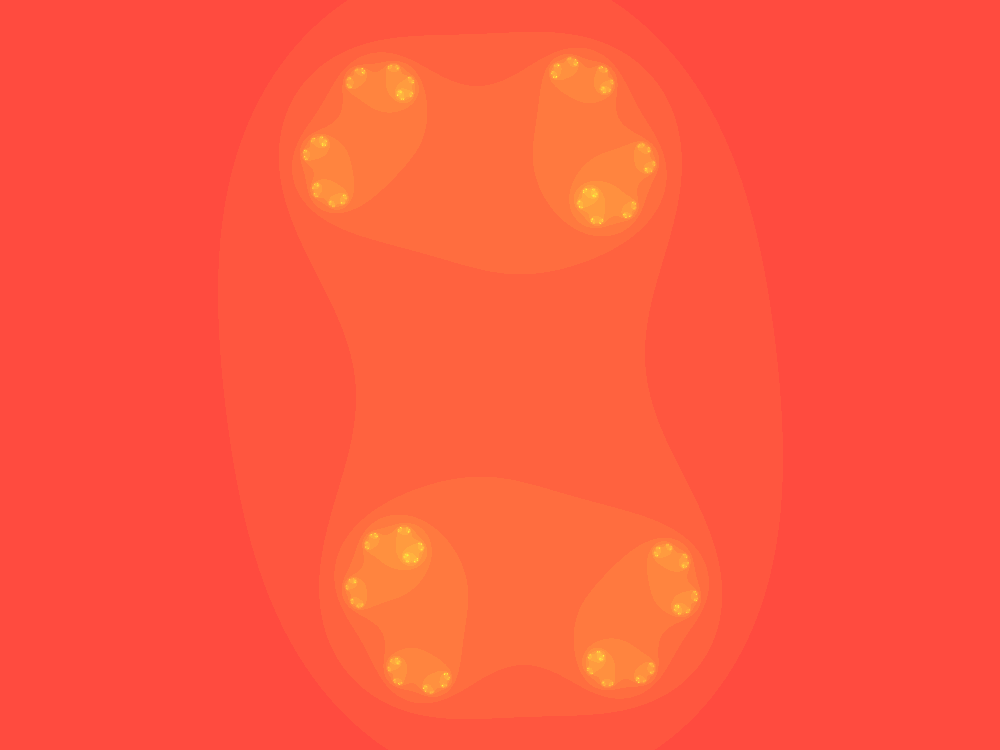
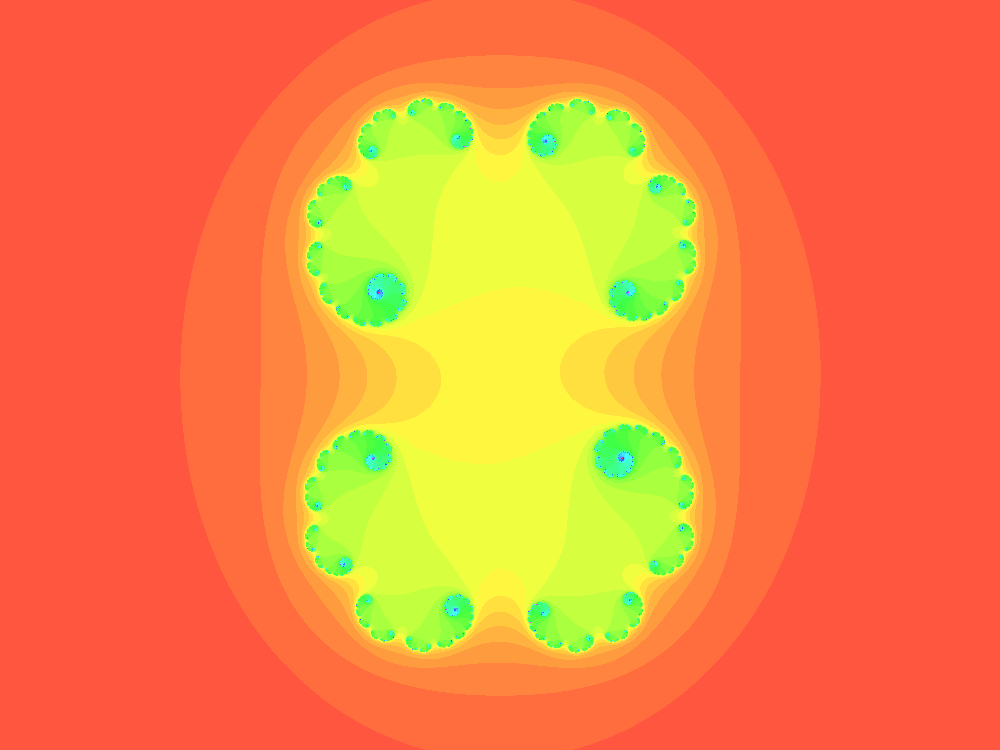
changed to RGB bc of pixels array

diff --git a/Fractals (p5)/fractals.js b/Fractals (p5)/fractals.js
@@ -5,8 +5,8 @@ var zoom = 0.9; //zoom factor
 var zoomOut = 1.1; //zoom factor
 var xZoom = 4; //x width of coordinate plane
 var yZoom = 3; // y width of coordinate plane
-var cX = 0,
-  cY = 0; //center coordinates
+var cX = 0; //center coordinates
+var cY = 0; //center coordinates
 var currentSet = 0; //0-mandelbrot
 var fWidth = 1000;
 var fHeight = 750;
@@ -27,11 +27,6 @@ function setup() {
   colorMode(RGB, 255);
   fill(200);
   rect(fWidth + (width - fWidth) / 2, height / 2, width - fWidth, height);*/
-
-  for (i = 0; i < 2; i += 0.5) {
-    var cN=new ComplexNumber(i,0);
-    print(mandelbrot(zero, cN, 0, fIter));
-  }
 }
 
 function draw() {
@@ -39,19 +34,22 @@ function draw() {
 }
 
 var drawMand = function(iter, mWidth, mHeight) {
-  mandelb = createImage(mWidth, mHeight);
-  colorMode(HSB, iter);
+  var mandelb = createImage(mWidth, mHeight);
+  //colorMode(RGB, iter);
   mandelb.loadPixels();
-  for (var h = 0.0; h < mandelb.height; h+=1.0) {
-    for (var w = 0.0; w < mandelb.width; w+=1.0) {
-      var a = new ComplexNumber(w/(mandelb.width/4.0) - 2.0, 1.5 - (h/(mandelb.height/3.0)));
-      var color1 = color(mandelbrot(zero, a, 0, iter), iter * .75, iter);
-      mandelb.set(w, h, color1);
+  for (var h = 0.0; h < 4.0 * mandelb.height; h += 4.0) {
+    for (var w = 0.0; w < 4.0 * mandelb.width; w += 4.0) {
+      var a = new ComplexNumber((w / 4.0) / (mandelb.width / 4.0) - 2.0, 1.5 - ((h / 4.0) / (mandelb.height / 3.0)));
+      //mandelb.pixels[h*mandelb.width+w]=color(mandelbrot(zero, a, 0, iter), iter*0.75, iter);
+      mandelb.pixels[h * mandelb.width + w] = map(mandelbrot(zero, a, 0, iter), 0, iter, 0, 255);
+      mandelb.pixels[h * mandelb.width + w + 1] = 0;
+      mandelb.pixels[h * mandelb.width + w + 2] = 0;
+      mandelb.pixels[h * mandelb.width + w + 3] = 255;
     }
   }
   mandelb.updatePixels();
   return mandelb;
-}
+};
 
 var mandelbrot = function(prev, orig, iter, maxI) {
   var next = orig.add(prev.square());
@@ -63,24 +61,24 @@ var mandelbrot = function(prev, orig, iter, maxI) {
       return mandelbrot(next, orig, iter + 1, maxI);
     }
   }
-}
+};
 
-function ComplexNumber(a, b) {
+function ComplexNumber (a, b) {
 
   this.getReal = function() {
     return a;
-  }
+  };
 
   this.getImag = function() {
     return b;
-  }
+  };
 
   this.toString = function() {
     var result = "";
-    if (a == 0) {
+    if (a === 0) {
       if (b < 0) {
         result = nfc(b, 2) + "i";
-      } else if (b == 0) {
+      } else if (b === 0) {
         result = "0.0";
       } else {
         result = nfc(b, 2) + "i";
@@ -88,38 +86,38 @@ function ComplexNumber(a, b) {
     } else {
       if (b < 0) {
         result = nfc(a, 2) + " - " + nfc(abs(b), 2) + "i";
-      } else if (b == 0) {
+      } else if (b === 0) {
         result = nfc(a, 2) + "";
       } else {
         result = nfc(a, 2) + " + " + nfc(b, 2) + "i";
       }
     }
     return result;
-  }
+  };
 
   this.add = function(c) {
     var cReal = a + c.getReal();
     var cImag = b + c.getImag();
     var d = new ComplexNumber(cReal, cImag);
     return d;
-  }
+  };
 
   this.subtract = function(c) {
     var cReal = a - c.getReal();
     var cImag = b - c.getImag();
     var d = new ComplexNumber(cReal, cImag);
     return d;
-  }
+  };
 
   this.multiply = function(c) {
     var cReal = a * c.getReal() + (-1 * b * c.getImag());
     var cImag = a * c.getImag() + (b * c.getReal());
     var d = new ComplexNumber(cReal, cImag);
     return d;
-  }
+  };
 
   this.divide = function(c) {
-    if ((c.getReal() + c.getImag()) == 0) {
+    if ((c.getReal() + c.getImag()) === 0) {
       var d = new ComplexNumber(a, b);
       print("Not valid; returning the dividend");
       return d;
@@ -129,25 +127,25 @@ function ComplexNumber(a, b) {
     var numImag = -1 * a * c.getImag() + (b * c.getReal());
     var cReal = numReal / denom;
     var cImag = numImag / denom;
-    var d = new ComplexNumber(cReal, cImag);
-    return d;
-  }
+    var e = new ComplexNumber(cReal, cImag);
+    return e;
+  };
 
   this.conjugate = function() {
     var d = new ComplexNumber(a, -1 * b);
     return d;
-  }
+  };
 
   this.equals = function(c) {
     if (a != c.getReal()) return false;
     if (b != c.getImag()) return false;
     return true;
-  }
+  };
 
   this.magnitude = function() {
     var d = Math.sqrt(a * a + b * b);
     return d;
-  }
+  };
 
   this.power = function(exp) {
     var d = new ComplexNumber(1, 0);
@@ -156,18 +154,61 @@ function ComplexNumber(a, b) {
       d = d.multiply(c);
     }
     return d;
-  }
+  };
 
   this.square = function() {
     var cReal = a * a - b * b;
     var cImag = 2 * a * b;
     var d = new ComplexNumber(cReal, cImag);
     return d;
+  };
+
+};
+
+var HSBtoRGB = function(h, s, b) {
+  var c = (1 - Math.abs(2 * b - 1)) * s;
+  var x = c * (1 - Math.abs((h / 60) % 2 - 1));
+  var m = b - (c / 2);
+  var test = h / 60.0;
+  var r;
+  var g;
+  var B;
+  switch (true) {
+    case test < 1:
+      r = c + m;
+      g = x + m;
+      B = m;
+      break;
+    case test < 2:
+      r = x + m;
+      g = c + m;
+      B = m;
+      break;
+    case test < 3:
+      r = m;
+      g = c + m;
+      B = x + m;
+      break;
+    case test < 4:
+      r = m;
+      g = x + m;
+      B = c + m;
+      break;
+    case test < 5:
+      r = x + m;
+      g = m;
+      B = c + m;
+      break;
+    case test < 6:
+      r = c + m;
+      g = m;
+      B = x + m;
+      break;
   }
+  return [r, g, B];
+};
 
-}
-
-function mouseClicked() {
+/*function mouseClicked() {
   if (mouseButton == LEFT) {
     for (var i = 0; i < nodes.length; i++) {
       var p = nodes[i];
@@ -193,10 +234,10 @@ function mouseClicked() {
     initialAction = calculateK() - calculateU();
     most = max(initialAction, initialU, abs(initialK));
   }
-}
+}*/
 
 
-function myFunction() {
+/*function myFunction() {
   var e = document.getElementById("menu1");
   potential = e.options[e.selectedIndex].value;
-}
+}*/
